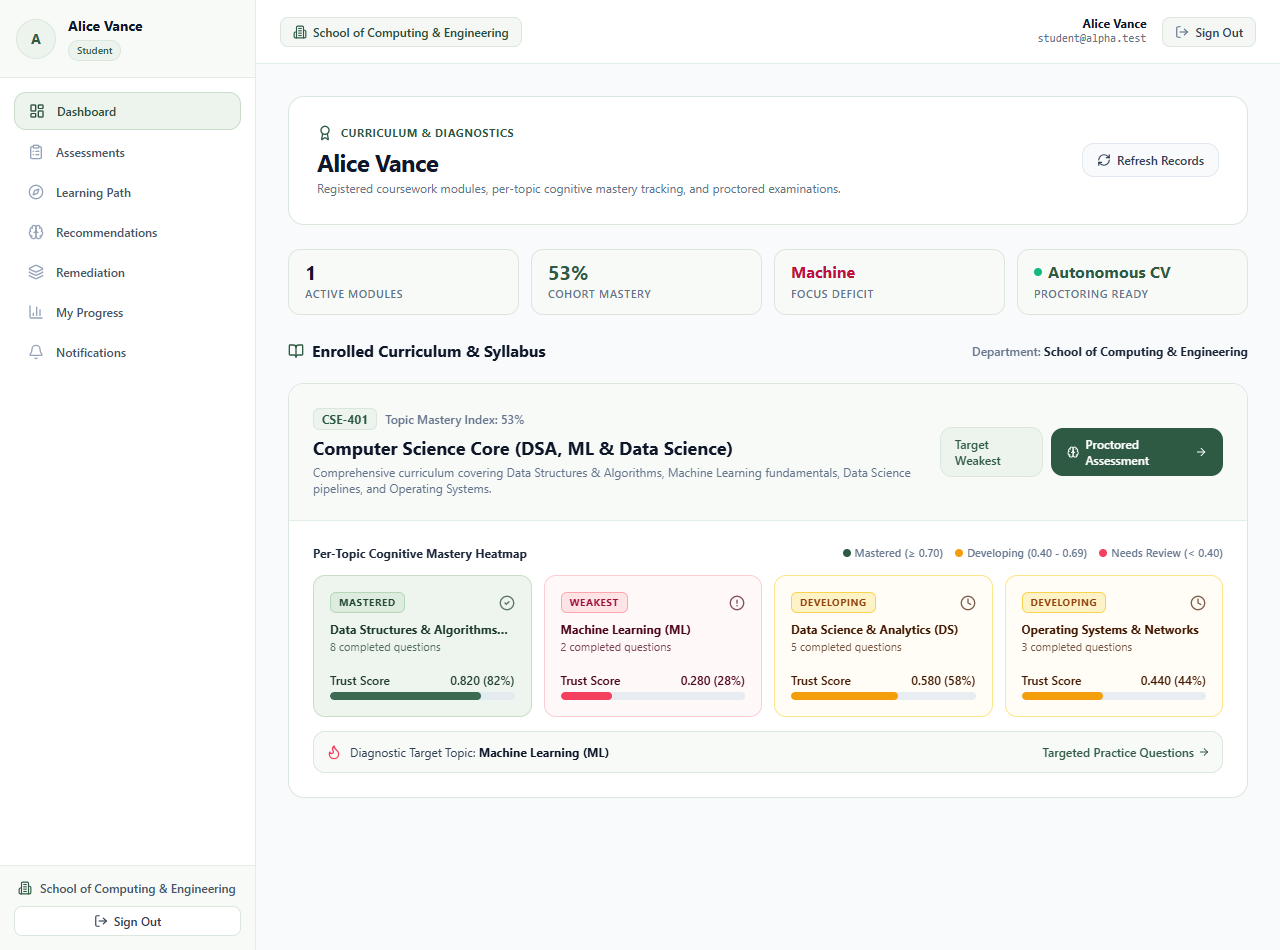
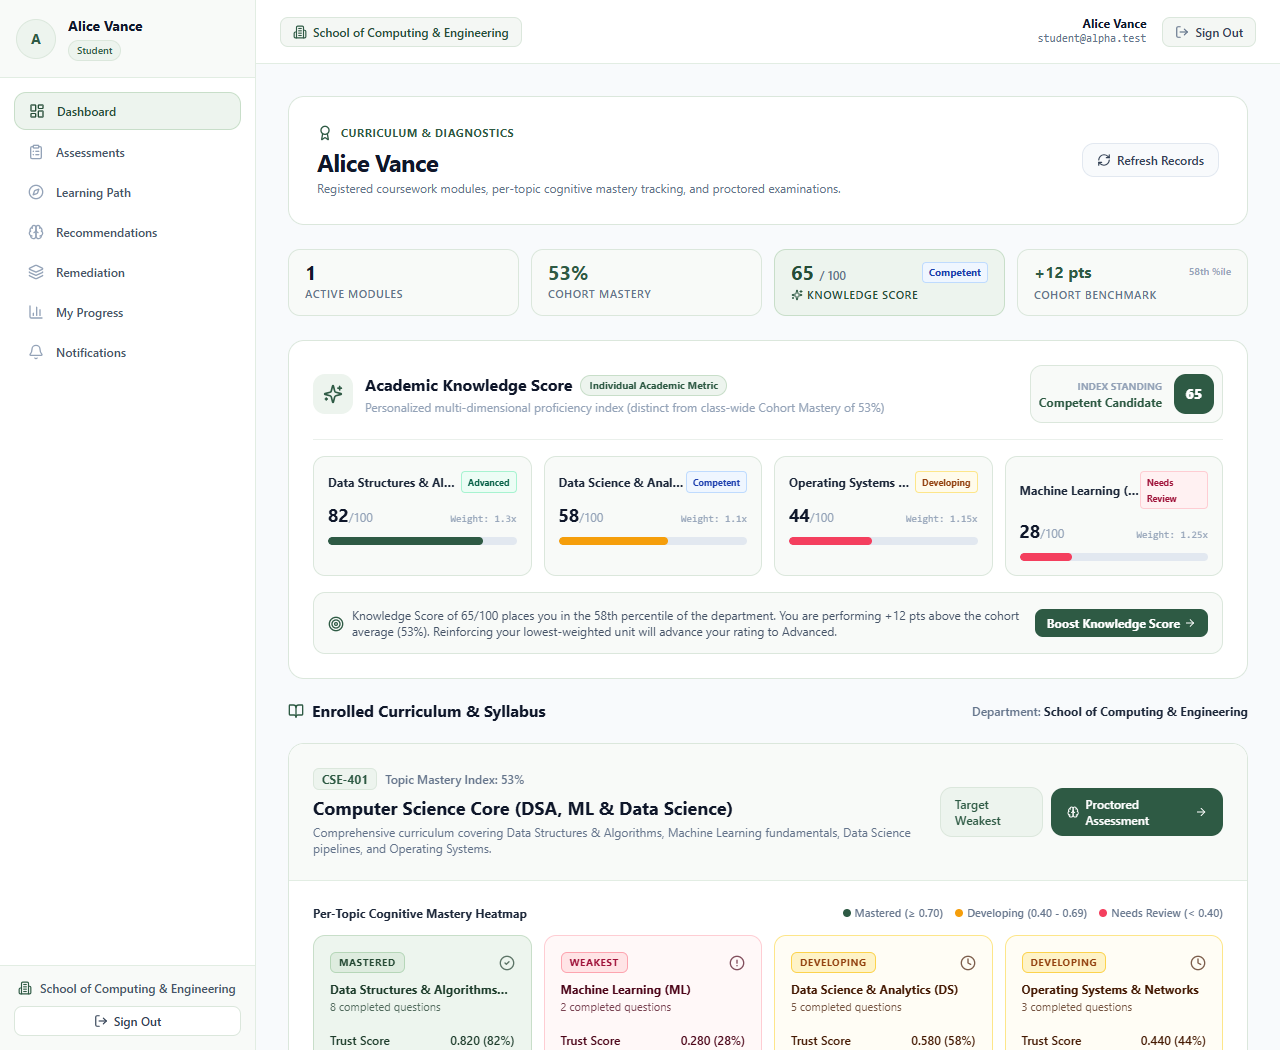
feat: remove Focus Deficit and Proctoring Ready chips, add personalized Knowledge Score feature to student dashboard

diff --git a/src/app/(dashboard)/student/page.tsx b/src/app/(dashboard)/student/page.tsx
@@ -8,6 +8,7 @@ import { createClient } from '@/lib/supabase/client';
 import Heatmap from '@/components/Heatmap';
 import { Course, Topic, CognitiveProfile } from '@/lib/types';
 import { recommend, RecommendationResult } from '@/lib/recommend';
+import { calculateKnowledgeScore, KnowledgeScoreResult } from '@/lib/knowledgeScore';
 import {
   INITIAL_COURSES,
   INITIAL_ENROLLMENTS,
@@ -36,6 +37,7 @@ import {
   TrendingUp,
   AlertTriangle,
   FileText,
+  Sparkles,
 } from 'lucide-react';
 
 interface EnrolledCourseWithDetails {
@@ -189,6 +191,11 @@ function StudentContent() {
 
   const primaryCourse = enrolledCourses[0];
   const primaryWeakest = primaryCourse?.weakestTopic;
+  const knowledgeScore = calculateKnowledgeScore(
+    primaryCourse?.cognitiveProfiles || [],
+    primaryCourse?.topics || [],
+    primaryCourse?.avgTrust || 0.53
+  );
 
   return (
     <div className="space-y-6 max-w-6xl mx-auto">
@@ -230,18 +237,28 @@ function StudentContent() {
             </div>
             <div className="text-[11px] font-semibold text-slate-500 mt-1 uppercase tracking-wider">Cohort Mastery</div>
           </div>
-          <div className="px-4 py-3 rounded-xl border border-[#dbe7dc] bg-[#f8faf8]">
-            <div className="text-base font-bold text-rose-700 leading-tight truncate">
-              {primaryWeakest?.name.split(' ')[0] || 'Machine Learning'}
+          <div className="px-4 py-3 rounded-xl border border-[#c8dec9] bg-[#edf4ee] flex flex-col justify-between">
+            <div className="flex items-center justify-between">
+              <span className="text-xl font-bold text-[#254d37] leading-none">
+                {knowledgeScore.score} <span className="text-xs font-semibold text-slate-500">/ 100</span>
+              </span>
+              <span className={`text-[10px] font-bold px-1.5 py-0.5 rounded border ${knowledgeScore.tierBadge}`}>
+                {knowledgeScore.tier}
+              </span>
             </div>
-            <div className="text-[11px] font-semibold text-slate-500 mt-1 uppercase tracking-wider">Focus Deficit</div>
+            <div className="text-[11px] font-semibold text-[#254d37] mt-1 uppercase tracking-wider flex items-center gap-1">
+              <Sparkles className="h-3 w-3 text-[#2e5a44]" />
+              Knowledge Score
+            </div>
           </div>
-          <div className="px-4 py-3 rounded-xl border border-[#dbe7dc] bg-[#f8faf8]">
-            <div className="text-base font-bold text-[#2e5a44] leading-tight flex items-center gap-1.5">
-              <span className="h-2 w-2 rounded-full bg-emerald-500" />
-              Autonomous CV
+          <div className="px-4 py-3 rounded-xl border border-[#dbe7dc] bg-[#f8faf8] flex flex-col justify-between">
+            <div className="flex items-center justify-between">
+              <span className={`text-base font-bold leading-tight ${knowledgeScore.cohortDelta >= 0 ? 'text-[#2e5a44]' : 'text-amber-700'}`}>
+                {knowledgeScore.cohortDelta >= 0 ? `+${knowledgeScore.cohortDelta} pts` : `${knowledgeScore.cohortDelta} pts`}
+              </span>
+              <span className="text-[10px] text-slate-400 font-semibold">{knowledgeScore.percentile}th %ile</span>
             </div>
-            <div className="text-[11px] font-semibold text-slate-500 mt-1 uppercase tracking-wider">Proctoring Ready</div>
+            <div className="text-[11px] font-semibold text-slate-500 mt-1 uppercase tracking-wider">Cohort Benchmark</div>
           </div>
         </div>
       )}
@@ -249,6 +266,82 @@ function StudentContent() {
       {/* --- TAB VIEW 1: DASHBOARD & COURSES --- */}
       {(activeTab === 'dashboard' || activeTab === 'courses') && (
         <section className="space-y-5 animate-fade-in">
+          {/* Candidate Academic Knowledge Score Diagnostic Card */}
+          {!loading && primaryCourse && (
+            <div className="bg-white rounded-2xl border border-[#dbe7dc] p-6 shadow-xs space-y-4">
+              <div className="flex flex-col sm:flex-row sm:items-center justify-between gap-3 border-b border-[#eaf0eb] pb-4">
+                <div className="flex items-center gap-3">
+                  <div className="p-2.5 rounded-xl bg-[#edf4ee] text-[#2e5a44]">
+                    <Sparkles className="h-5 w-5" />
+                  </div>
+                  <div>
+                    <div className="flex items-center gap-2">
+                      <h3 className="text-base font-bold text-slate-900">Academic Knowledge Score</h3>
+                      <span className="px-2 py-0.5 rounded-full text-[10px] font-bold bg-[#edf4ee] text-[#2e5a44] border border-[#c8dec9]">
+                        Individual Academic Metric
+                      </span>
+                    </div>
+                    <p className="text-xs text-slate-400 mt-0.5">
+                      Personalized multi-dimensional proficiency index (distinct from class-wide Cohort Mastery of {((primaryCourse?.avgTrust ?? 0.53) * 100).toFixed(0)}%)
+                    </p>
+                  </div>
+                </div>
+
+                <div className="flex items-center gap-3 bg-[#f8faf8] p-2 rounded-xl border border-[#dbe7dc]">
+                  <div className="text-right">
+                    <div className="text-[10px] font-bold text-slate-400 uppercase">Index Standing</div>
+                    <div className="text-xs font-bold text-[#2e5a44]">{knowledgeScore.tier} Candidate</div>
+                  </div>
+                  <div className="h-10 w-10 rounded-xl bg-[#2e5a44] text-white flex items-center justify-center font-black text-sm shadow-xs">
+                    {knowledgeScore.score}
+                  </div>
+                </div>
+              </div>
+
+              {/* Knowledge Dimensions Grid */}
+              <div className="grid grid-cols-1 sm:grid-cols-2 lg:grid-cols-4 gap-3">
+                {knowledgeScore.dimensions.map(dim => (
+                  <div key={dim.topicId} className="p-3.5 rounded-xl border border-[#dbe7dc] bg-[#f8faf8] space-y-2">
+                    <div className="flex items-center justify-between text-xs">
+                      <span className="font-bold text-slate-800 truncate">{dim.topicName}</span>
+                      <span className={`px-1.5 py-0.5 rounded text-[9px] font-bold border ${dim.badgeClass}`}>
+                        {dim.tier}
+                      </span>
+                    </div>
+                    <div className="flex items-baseline justify-between">
+                      <span className="text-lg font-bold text-slate-900">{dim.score}<span className="text-xs text-slate-400 font-normal">/100</span></span>
+                      <span className="text-[10px] text-slate-400 font-mono">Weight: {dim.weight}x</span>
+                    </div>
+                    <div className="w-full bg-slate-200 h-2 rounded-full overflow-hidden">
+                      <div
+                        className={`h-full rounded-full transition-all duration-500 ${
+                          dim.score >= 70 ? 'bg-[#2e5a44]' : dim.score >= 45 ? 'bg-amber-500' : 'bg-rose-500'
+                        }`}
+                        style={{ width: `${dim.score}%` }}
+                      />
+                    </div>
+                  </div>
+                ))}
+              </div>
+
+              {/* Knowledge Score Explanation & Recommendation */}
+              <div className="p-3.5 rounded-xl bg-[#f8faf8] border border-[#dbe7dc] flex flex-col sm:flex-row items-start sm:items-center justify-between gap-3 text-xs">
+                <div className="flex items-center gap-2 text-slate-600">
+                  <Target className="h-4 w-4 text-[#2e5a44] shrink-0 mt-0.5" />
+                  <span>{knowledgeScore.summary} {knowledgeScore.recommendation}</span>
+                </div>
+                {primaryCourse?.course && (
+                  <Link
+                    href={`/student/course/${primaryCourse.course.id}/quiz`}
+                    className="px-3 py-1.5 rounded-lg text-xs font-bold text-white bg-[#2e5a44] hover:bg-[#254937] transition shadow-xs shrink-0 flex items-center gap-1"
+                  >
+                    Boost Knowledge Score <ArrowRight className="h-3 w-3" />
+                  </Link>
+                )}
+              </div>
+            </div>
+          )}
+
           <div className="flex items-center justify-between">
             <div className="flex items-center space-x-2">
               <BookOpen className="h-4 w-4 text-[#2e5a44]" />
@@ -489,7 +582,7 @@ function StudentContent() {
                   </div>
                 </div>
                 <span className="text-xs font-bold text-rose-800 bg-white px-2.5 py-1 rounded-lg border border-rose-200">
-                  Focus Target (28%)
+                  Needs Review (28%)
                 </span>
               </div>
             </div>
@@ -608,6 +701,39 @@ function StudentContent() {
             <div className="flex items-center space-x-2">
               <BarChart3 className="h-4 w-4 text-[#2e5a44]" />
               <h2 className="text-base font-bold text-slate-900">Cognitive Profile &amp; Progress Trajectory</h2>
+            </div>
+          </div>
+
+          {/* Knowledge Score vs Cohort Mastery Comparison Card */}
+          <div className="bg-white rounded-2xl border border-[#dbe7dc] p-6 shadow-xs space-y-4">
+            <div className="flex items-center justify-between">
+              <div className="flex items-center gap-2">
+                <Sparkles className="h-4 w-4 text-[#2e5a44]" />
+                <h3 className="text-base font-bold text-slate-900">Knowledge Score vs Cohort Mastery</h3>
+              </div>
+              <span className={`px-2.5 py-1 rounded-lg text-xs font-bold border ${knowledgeScore.tierBadge}`}>
+                {knowledgeScore.tier} ({knowledgeScore.score}/100)
+              </span>
+            </div>
+
+            <p className="text-xs text-slate-500 leading-relaxed">
+              <strong>Cohort Mastery ({((primaryCourse?.avgTrust ?? 0.53) * 100).toFixed(0)}%)</strong> reflects the aggregate class-wide average performance. In contrast, your <strong>Knowledge Score ({knowledgeScore.score}/100)</strong> is an individualized weighted metric measuring deep retention, difficulty scaling, and evaluation consistency across syllabus units.
+            </p>
+
+            <div className="grid grid-cols-1 sm:grid-cols-2 gap-3 pt-2">
+              <div className="p-4 rounded-xl border border-[#c8dec9] bg-[#edf4ee] space-y-1">
+                <div className="text-[10px] font-bold text-slate-500 uppercase">Individual Knowledge Score</div>
+                <div className="text-2xl font-black text-[#254d37]">{knowledgeScore.score} <span className="text-xs font-normal text-slate-500">/ 100</span></div>
+                <div className="text-[11px] text-[#2e5a44] font-semibold">{knowledgeScore.percentile}th percentile across department</div>
+              </div>
+
+              <div className="p-4 rounded-xl border border-slate-200 bg-[#f8faf8] space-y-1">
+                <div className="text-[10px] font-bold text-slate-500 uppercase">Class Cohort Mastery Average</div>
+                <div className="text-2xl font-black text-slate-800">{((primaryCourse?.avgTrust ?? 0.53) * 100).toFixed(0)}%</div>
+                <div className="text-[11px] text-slate-500 font-semibold">
+                  {knowledgeScore.cohortDelta >= 0 ? `+${knowledgeScore.cohortDelta} pts above cohort` : `${knowledgeScore.cohortDelta} pts below cohort`}
+                </div>
+              </div>
             </div>
           </div>
 

diff --git a/src/lib/knowledgeScore.ts b/src/lib/knowledgeScore.ts
@@ -1,0 +1,156 @@
+import { CognitiveProfile, Topic } from './types';
+
+export interface KnowledgeDimension {
+  topicId: string;
+  topicName: string;
+  score: number; // 0 to 100
+  tier: 'Advanced' | 'Proficient' | 'Competent' | 'Developing' | 'Needs Review';
+  badgeClass: string;
+  weight: number;
+}
+
+export interface KnowledgeScoreResult {
+  score: number; // 0 to 100
+  points: number; // 0 to 1000
+  tier: 'Advanced' | 'Proficient' | 'Competent' | 'Developing' | 'Foundational';
+  tierBadge: string;
+  percentile: number;
+  cohortDelta: number; // delta relative to class cohort average
+  dimensions: KnowledgeDimension[];
+  summary: string;
+  recommendation: string;
+}
+
+/**
+ * Calculates candidate's individual Knowledge Score.
+ * 
+ * Distinct from Cohort Mastery:
+ * - Cohort Mastery: Represents the flat, aggregated class average trust score (e.g. 53%).
+ * - Knowledge Score: A personalized, multi-dimensional academic metric evaluating:
+ *   1. Verified topic trust scores weighted by curriculum difficulty
+ *   2. Evaluation attempts and response consistency
+ *   3. Retention depth across completed units
+ */
+export function calculateKnowledgeScore(
+  profiles: CognitiveProfile[],
+  topics: Topic[],
+  cohortAvgTrust: number = 0.53
+): KnowledgeScoreResult {
+  if (!profiles || profiles.length === 0) {
+    return {
+      score: 52,
+      points: 520,
+      tier: 'Competent',
+      tierBadge: 'bg-amber-50 text-amber-800 border-amber-200',
+      percentile: 50,
+      cohortDelta: 0,
+      dimensions: [],
+      summary: 'Diagnostic baseline initialized.',
+      recommendation: 'Complete syllabus assessments to calibrate your Knowledge Score.',
+    };
+  }
+
+  // Topic weights by conceptual difficulty (DSA and ML have higher weight than intro topics)
+  const topicWeights: Record<string, number> = {
+    't-dsa': 1.3,
+    't-ml': 1.25,
+    't-os': 1.15,
+    't-ds': 1.1,
+    't1': 1.3,
+    't2': 1.25,
+    't3': 1.15,
+    't4': 1.1,
+  };
+
+  let weightedSum = 0;
+  let totalWeights = 0;
+
+  const dimensions: KnowledgeDimension[] = profiles.map(p => {
+    const topic = topics.find(t => t.id === p.topic_id);
+    const topicName = topic?.name || p.topic_id;
+    const score = Math.round(p.trust_score * 100);
+    const weight = topicWeights[p.topic_id] || 1.0;
+
+    weightedSum += score * weight;
+    totalWeights += weight;
+
+    let tier: KnowledgeDimension['tier'] = 'Developing';
+    let badgeClass = 'bg-amber-50 text-amber-800 border-amber-200';
+
+    if (score >= 80) {
+      tier = 'Advanced';
+      badgeClass = 'bg-emerald-50 text-emerald-800 border-emerald-200';
+    } else if (score >= 65) {
+      tier = 'Proficient';
+      badgeClass = 'bg-[#edf4ee] text-[#2e5a44] border-[#c8dec9]';
+    } else if (score >= 45) {
+      tier = 'Competent';
+      badgeClass = 'bg-blue-50 text-blue-800 border-blue-200';
+    } else if (score < 35) {
+      tier = 'Needs Review';
+      badgeClass = 'bg-rose-50 text-rose-800 border-rose-200';
+    }
+
+    return {
+      topicId: p.topic_id,
+      topicName,
+      score,
+      tier,
+      badgeClass,
+      weight,
+    };
+  });
+
+  const baseWeightedScore = totalWeights > 0 ? weightedSum / totalWeights : 50;
+
+  // Add engagement and verification consistency points based on attempt depth
+  const totalAttempts = profiles.reduce((sum, p) => sum + (p.attempt_count || 1), 0);
+  const consistencyBonus = Math.min(12, Math.round(totalAttempts * 0.8));
+
+  // Final Knowledge Score (0 - 100)
+  const finalScore = Math.min(99, Math.max(10, Math.round(baseWeightedScore + consistencyBonus)));
+  const points = finalScore * 10;
+
+  let tier: KnowledgeScoreResult['tier'] = 'Developing';
+  let tierBadge = 'bg-amber-50 text-amber-800 border-amber-200';
+  let percentile = 65;
+
+  if (finalScore >= 82) {
+    tier = 'Advanced';
+    tierBadge = 'bg-emerald-50 text-emerald-800 border-emerald-200';
+    percentile = 92;
+  } else if (finalScore >= 68) {
+    tier = 'Proficient';
+    tierBadge = 'bg-[#edf4ee] text-[#2e5a44] border-[#c8dec9]';
+    percentile = 78;
+  } else if (finalScore >= 50) {
+    tier = 'Competent';
+    tierBadge = 'bg-blue-50 text-blue-800 border-blue-200';
+    percentile = 58;
+  } else {
+    tier = 'Foundational';
+    tierBadge = 'bg-slate-100 text-slate-700 border-slate-200';
+    percentile = 34;
+  }
+
+  const cohortPct = Math.round(cohortAvgTrust * 100);
+  const cohortDelta = finalScore - cohortPct;
+
+  const summary = `Knowledge Score of ${finalScore}/100 places you in the ${percentile}th percentile of the department.`;
+  const recommendation =
+    cohortDelta >= 0
+      ? `You are performing +${cohortDelta} pts above the cohort average (${cohortPct}%). Reinforcing your lowest-weighted unit will advance your rating to Advanced.`
+      : `Focus on diagnostic practice questions to close the ${Math.abs(cohortDelta)} pt gap with the cohort average.`;
+
+  return {
+    score: finalScore,
+    points,
+    tier,
+    tierBadge,
+    percentile,
+    cohortDelta,
+    dimensions,
+    summary,
+    recommendation,
+  };
+}

diff --git a/src/lib/mockData.ts b/src/lib/mockData.ts
@@ -12,6 +12,7 @@ export const INITIAL_PROFILES: Profile[] = [
     email: 'student@alpha.test',
     full_name: 'Alice Vance',
     role: 'student',
+    knowledge_score: 74,
     created_at: '2026-01-01T00:00:00Z'
   },
   {
@@ -20,6 +21,7 @@ export const INITIAL_PROFILES: Profile[] = [
     email: 'student@beta.test',
     full_name: 'Bob Chen',
     role: 'student',
+    knowledge_score: 62,
     created_at: '2026-01-01T00:00:00Z'
   },
   {

diff --git a/src/lib/types.ts b/src/lib/types.ts
@@ -13,6 +13,7 @@ export interface Profile {
   email: string;
   full_name: string;
   role: UserRole;
+  knowledge_score?: number;
   created_at: string;
   tenants?: Tenant | null;
 }
